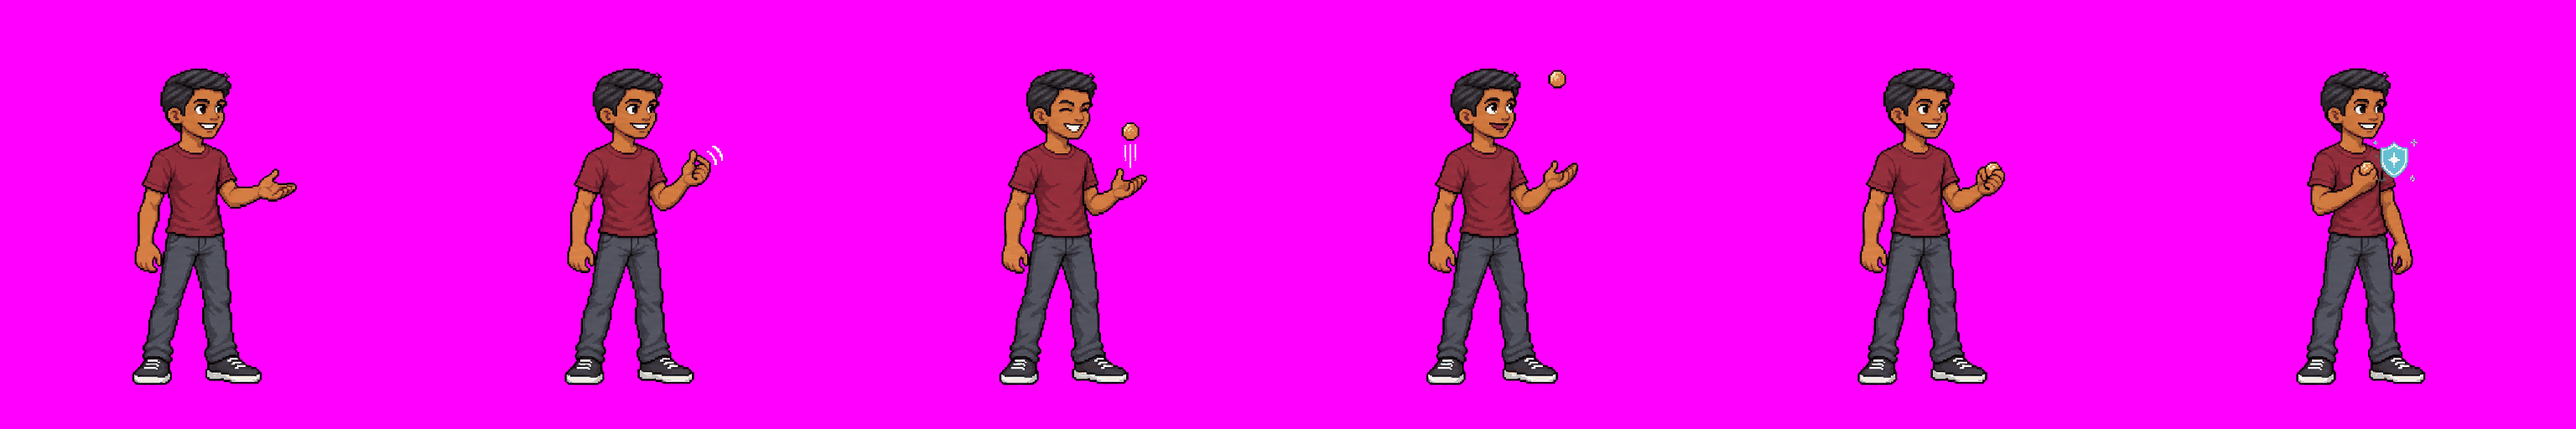
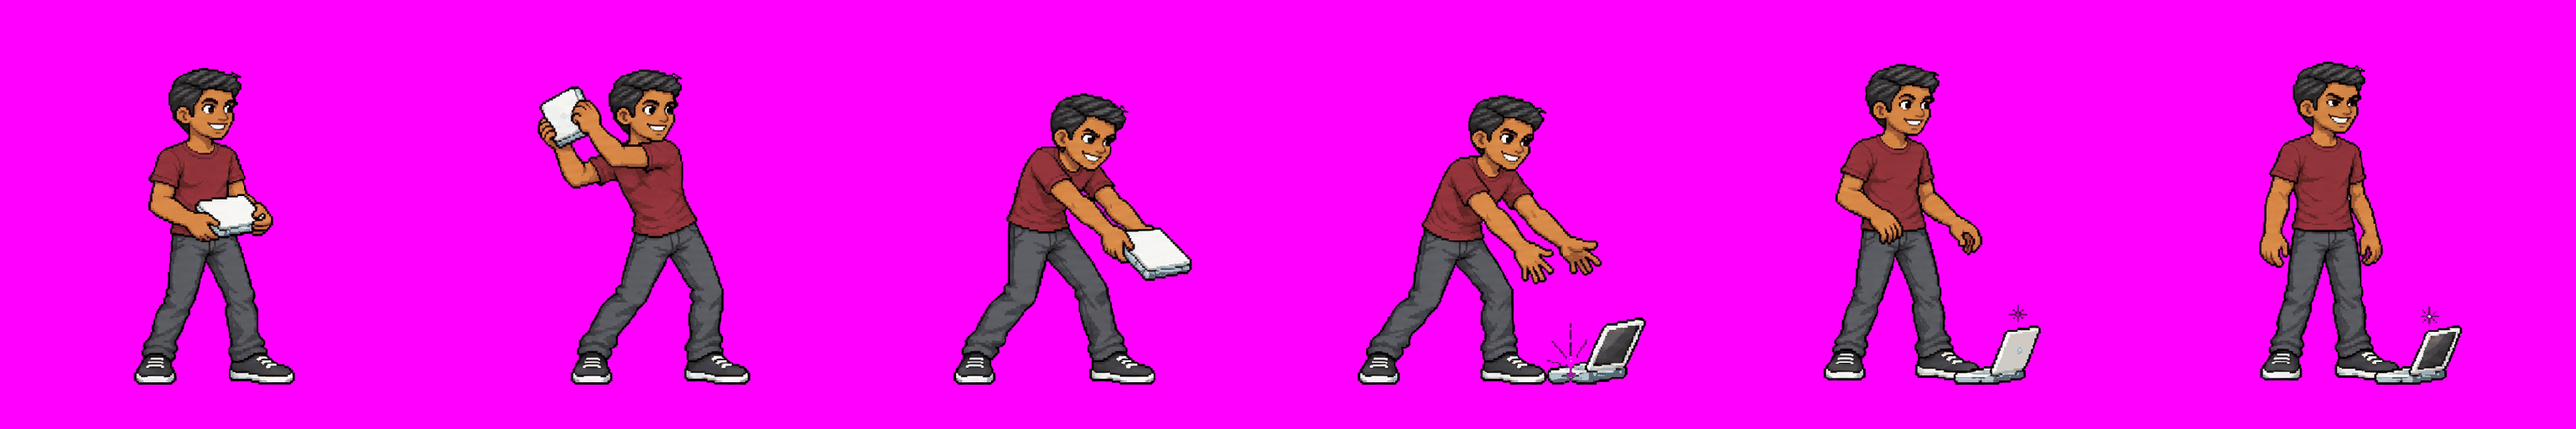
Interfaz pixel art del launcher, actualizacion forzada por version, areas elipticas, reloj de Jorbi y habilidades nuevas

diff --git a/src/world.js b/src/world.js
@@ -26,6 +26,8 @@ const CROPS = {
 const TREES_BIG = ['tree1', 'tree2', 'tree3'], BUSHES = ['bushA', 'bushB', 'bushC', 'bushD', 'bushE'];
 const ROCKS = ['rockA', 'rockB', 'rockC', 'rockD', 'rockE', 'rockF'];
 const MAP_SCALE = 2;
+const YR = 0.75;   // the map is seen at an angle: ground areas are ellipses squashed to this ratio, not perfect circles
+const eDist = (ax, ay, bx, by) => Math.hypot(ax - bx, (ay - by) / YR);   // distance measured in that ellipse metric
 const FOREST = ['wall1', 'wall2', 'wall3', 'tree1', 'tree2', 'tree3', 'tree4', 'bush1', 'bush2', 'trunk1', 'stone1', 'stone2', 'stone3', 'stone4', 'flower1', 'flower2', 'flower3', 'mush1', 'mush2', 'mush3', 'mush4', 'mush5', 'mush6'];
 const CHAMP_ORDER = ['leandro', 'xeviche', 'jorbi', 'axel', 'julio', 'luis', 'eliud', 'hector'];   // TAB cycles through these
 
@@ -493,7 +495,7 @@ export class Arena extends Phaser.Scene {
     const spec = aimSpec(p.key, key, Math.max(1, p.ranks[key]), p), c = spec.color, spin = (this.time.now * 0.012) % 360;
     const img = (id, tex) => this.aimObj(id, () => this.add.image(0, 0, tex).setDepth(99990)).setVisible(true);
     const tech = p.key === 'luis';   // Luis uses circuit/HUD-style indicators instead of magic runes
-    const ring = (id, x, y, r, a = 0.9) => tech ? this.techRing(x, y, r, c, a) : img(id, 'aim_ring').setPosition(x, y).setDisplaySize(r * 2.04, r * 2.04).setTint(c).setAlpha(a).setAngle(spin);
+    const ring = (id, x, y, r, a = 0.9) => tech ? this.techRing(x, y, r, c, a) : img(id, 'aim_ring').setPosition(x, y).setDisplaySize(r * 2.04, r * 2.04 * YR).setTint(c).setAlpha(a);
     const cap = (id, x, y, size) => img(id, 'aim_cap').setPosition(x, y).setDisplaySize(size, size).setTint(c).setAlpha(0.95);
     if (spec.type === 'line') {
       const ex = p.x + p.ax * spec.range, ey = p.y + p.ay * spec.range;
@@ -572,7 +574,8 @@ export class Arena extends Phaser.Scene {
 
   // technological range indicator: thin outer circle, rotating dashed arcs, tick marks, crosshair with corner brackets
   techRing(x, y, r, c, a = 0.9) {
-    const g = this.aimG, t = this.time.now / 1000;
+    const g = this.aimG, t = this.time.now / 1000, ox = x, oy = y; x = 0; y = 0;
+    g.save(); g.translateCanvas(ox, oy); g.scaleCanvas(1, YR);   // drawn as a circle, shown as the ground ellipse
     g.lineStyle(2, c, a * 0.9).strokeCircle(x, y, r);
     g.fillStyle(c, 0.07 * a).fillCircle(x, y, r);
     for (let i = 0; i < 6; i++) { const s0 = t * 0.9 + i * Math.PI / 3; g.lineStyle(5, c, a).beginPath().arc(x, y, r - 7, s0, s0 + 0.42, false).strokePath(); }
@@ -581,12 +584,13 @@ export class Arena extends Phaser.Scene {
     g.lineStyle(2, c, a * 0.8).lineBetween(x - k, y, x - k * 0.35, y).lineBetween(x + k * 0.35, y, x + k, y).lineBetween(x, y - k, x, y - k * 0.35).lineBetween(x, y + k * 0.35, x, y + k);
     const bk = Math.min(r * 0.5, 46);
     [[-1, -1], [1, -1], [1, 1], [-1, 1]].forEach(([sx, sy]) => g.lineStyle(3, c, a).beginPath().moveTo(x + sx * bk, y + sy * (bk - 12)).lineTo(x + sx * bk, y + sy * bk).lineTo(x + sx * (bk - 12), y + sy * bk).strokePath());
+    g.restore();
   }
 
   // persistent ground decal for an active area effect (fades out)
   zoneDecal(x, y, r, color, life) {
     if (!this.textures.exists('zone') || !this.inView(x, y, r)) return;
-    const d = this.add.image(x, y, 'zone').setDepth(y - 3).setTint(color).setAlpha(0).setDisplaySize(r * 2.1, r * 2.1);
+    const d = this.add.image(x, y, 'zone').setDepth(y - 3).setTint(color).setAlpha(0).setDisplaySize(r * 2.1, r * 2.1 * YR);
     this.tweens.add({ targets: d, alpha: 0.9, duration: 150 });
     this.tweens.add({ targets: d, alpha: 0, angle: 40, delay: life * 1000 - 400, duration: 400, onComplete: () => d.destroy() });
   }
@@ -597,7 +601,7 @@ export class Arena extends Phaser.Scene {
     const d = dist(t, f) || 1, r = Math.min(d, max);
     return { x: f.x + (t.x - f.x) / d * r, y: f.y + (t.y - f.y) / d * r };
   }
-  enemiesNear(team, x, y, r) { return this.fighters.filter(t => t.alive && t.team !== team && Math.hypot(t.x - x, t.y - y) <= r); }
+  enemiesNear(team, x, y, r) { return this.fighters.filter(t => t.alive && t.team !== team && eDist(t.x, t.y, x, y) <= r); }
 
   // tires are solid: nobody walks through them, anyone caught under a new wall is pushed out
   resolveSolids(f) {
@@ -747,21 +751,21 @@ export class Arena extends Phaser.Scene {
   }
 
   /* ---------- Jorbi's "15 Minutos más": rewind ---------- */
-  recordHistory(dt) {   // positions of every minion / champion for the last ~6 s (10 samples per second); only the simulating side keeps it
+  recordHistory(dt) {   // positions of every minion / champion for the last ~16 s (10 samples per second); only the simulating side keeps it
     this.histT = (this.histT || 0) - dt; if (this.histT > 0 || this.net?.role === 'client') return; this.histT = 0.1;
     const d = new Map(); this.fighters.forEach(f => { if (f.alive && (f.isChamp || f.isMinion)) d.set(f.nid, [Math.round(f.x), Math.round(f.y)]); });
-    (this.hist ||= []).push({ t: this.gameT, d }); while (this.hist.length && this.gameT - this.hist[0].t > 6) this.hist.shift();
+    (this.hist ||= []).push({ t: this.gameT, d }); while (this.hist.length && this.gameT - this.hist[0].t > 16) this.hist.shift();
   }
   startRewind(owner, a, rank) {
     if (this.net?.role === 'client') return;
-    const now = this.gameT, dur = a.travel, lines = [], units = this.fighters.filter(f => f.alive && !f.away && (f.isChamp || f.isMinion) && !f.owner);
+    const now = this.gameT, back = rk(a.rewind, rank), dur = rk(a.travel, rank), lines = [], units = this.fighters.filter(f => f.alive && !f.away && (f.isChamp || f.isMinion) && !f.owner);
     for (const f of units) {
-      const path = []; for (const h of this.hist || []) { if (now - h.t > a.rewind + 0.05) continue; const e = h.d.get(f.nid); if (e) path.push(e); }
+      const path = []; for (const h of this.hist || []) { if (now - h.t > back + 0.05) continue; const e = h.d.get(f.nid); if (e) path.push(e); }
       if (path.length < 2) continue; path.push([Math.round(f.x), Math.round(f.y)]);
       f.rw = { path, t: 0, dur }; f.pending = null; f.stunT = 0; f.state = 'idle';
       lines.push({ team: f.team, pts: path });
     }
-    this.showRewind(lines, dur); this.net?.onRewind(lines, dur);
+    this.announceRewind(owner, back, dur); this.showRewind(lines, dur); this.net?.onRewind(lines, dur, owner, back);
     this.after(dur + 0.05, () => this.finishRewind(owner, a, rank, units));
   }
   finishRewind(owner, a, rank, units) {
@@ -773,6 +777,12 @@ export class Arena extends Phaser.Scene {
       else { f.slow(sl, t); this.vfx('spark', f.x, f.cy, { scale: 3, tint: 0x66aaff }); }
     });
     this.castCtx = null; this.audio.play('ui_upgrade', { at: owner, vol: 0.8, gap: 0 });
+  }
+  // announcement on every player's screen
+  announceRewind(owner, back, dur = 1.5) {
+    this.rwGlow = { t: dur + 3, T: dur + 3, hg: 2.6 };   // golden screen glow while the effect lasts + the hourglass on every screen
+    this.showBanner({ title: `${owner.def.name.toUpperCase()} USÓ SU RELOJ`, sub: `La partida retrocede ${back} segundos`, team: owner.baseTeam, face: this.faceOf(owner), kind: 'streak', big: 3 }, 3200);
+    this.audio.play('ui_announce', { vol: 0.8, gap: 0 });
   }
   showRewind(lines, dur) { this.rwTrail = { lines, t: 0, dur: dur + 1.4 }; }
   drawRewind(dt) {
@@ -1092,7 +1102,7 @@ export class Arena extends Phaser.Scene {
 
   /* ---------- world API used by fighters ---------- */
   enemiesOf(f) { return this.fighters.filter(t => t.alive && !t.away && t.team !== f.team); }
-  enemiesWithin(f, r) { return this.enemiesOf(f).filter(t => dist(t, f) <= r); }
+  enemiesWithin(f, r) { return this.enemiesOf(f).filter(t => eDist(t.x, t.y, f.x, f.y) <= r); }
   meleeHits(f, reach) {
     return this.enemiesOf(f).filter(t => {
       const d = dist(t, f);
@@ -1231,7 +1241,7 @@ export class Arena extends Phaser.Scene {
 
   vfx(name, x, y, { scale = 3, alpha = 1, tint = null, below = false } = {}) {
     if (!this.inView(x, y, 260)) return null;   // effects outside the camera are never seen: do not even create them
-    const s = this.add.sprite(x, y, 'vfx_' + name).setScale(scale).setDepth(below ? y - 2 : y + 2).setAlpha(alpha);
+    const s = this.add.sprite(x, y, 'vfx_' + name).setScale(scale, name === 'shockwave' ? scale * YR : scale).setDepth(below ? y - 2 : y + 2).setAlpha(alpha);
     if (tint) s.setTint(tint);
     s.play({ key: 'vfx_' + name, repeat: 0 });
     s.once('animationcomplete', () => s.destroy());
@@ -1259,9 +1269,9 @@ export class Arena extends Phaser.Scene {
   // cacti ring the zone and fill it (outer ring first, then the inside), then fade
   cacti(cx, cy, radius) {
     const pts = [], ringN = Math.round(radius * 0.108), fillN = Math.round(radius * 0.085);
-    for (let i = 0; i < ringN; i++) { const a = (i / ringN) * Math.PI * 2 + Math.random() * 0.2; pts.push({ x: cx + Math.cos(a) * radius * 0.96, y: cy + Math.sin(a) * radius * 0.96 * 0.9, ring: true }); }
+    for (let i = 0; i < ringN; i++) { const a = (i / ringN) * Math.PI * 2 + Math.random() * 0.2; pts.push({ x: cx + Math.cos(a) * radius * 0.96, y: cy + Math.sin(a) * radius * 0.96 * YR, ring: true }); }
     for (let i = 0, tries = 0; i < fillN && tries < 300; tries++) {
-      const a = Math.random() * Math.PI * 2, r = Math.sqrt(Math.random()) * radius * 0.78, q = { x: cx + Math.cos(a) * r, y: cy + Math.sin(a) * r * 0.9 };
+      const a = Math.random() * Math.PI * 2, r = Math.sqrt(Math.random()) * radius * 0.78, q = { x: cx + Math.cos(a) * r, y: cy + Math.sin(a) * r * YR };
       if (pts.every(o => Math.hypot(o.x - q.x, o.y - q.y) > 40)) { pts.push(q); i++; }
     }
     pts.forEach((q, i) => {
@@ -1374,6 +1384,7 @@ export class Arena extends Phaser.Scene {
     this.drawAim();
     this.drawRangeHint();
     this.drawRewind(dt);
+    if (this.rwGlow) { this.rwGlow.t -= dt; this.rwGlow.hg -= dt; if (this.rwGlow.t <= 0) this.rwGlow = null; }
     this.updateFog(dt);
     this.net?.post(dt);
   }
@@ -1390,8 +1401,8 @@ export class Arena extends Phaser.Scene {
       }
       if (z.kind === 'infect') {   // Leandro's contracts: a green infected area that poisons everyone inside
         if (z.t <= 0) { z.decal?.destroy(); return false; }
-        if (this.textures.exists('zone')) z.decal ||= this.add.image(z.x, z.y, 'zone').setTint(0x7dff4a).setAlpha(0.7).setDepth(z.y - 3).setDisplaySize(z.r * 2.1, z.r * 1.7);
-        z.decal?.setAngle(z.decal.angle + dt * 22).setAlpha(Math.min(0.7, z.t * 0.7));
+        if (this.textures.exists('zone')) z.decal ||= this.add.image(z.x, z.y, 'zone').setTint(0x7dff4a).setAlpha(0.7).setDepth(z.y - 3).setDisplaySize(z.r * 2.1, z.r * 2.1 * YR);
+        z.decal?.setAlpha(Math.min(0.7, z.t * 0.7));
         z.tick += dt;
         if (z.tick >= 0.5) {
           z.tick -= 0.5; this.vfx('poison_cloud', z.x + Phaser.Math.Between(-z.r * 0.6, z.r * 0.6), z.y + Phaser.Math.Between(-z.r * 0.4, z.r * 0.4) - 10, { scale: 2.2, alpha: 0.7, below: true });
@@ -1424,14 +1435,14 @@ export class Arena extends Phaser.Scene {
       }
       if (z.kind === 'malware') {   // infected zone: stays for a while, anyone enemy that walks in is affected
         if (z.t <= 0) { z.decal?.destroy(); z.icon?.destroy(); return false; }
-        if (this.textures.exists('zone')) z.decal ||= this.add.image(z.x, z.y, 'zone').setTint(z.col).setAlpha(0.75).setDepth(z.y - 3).setDisplaySize(z.r * 2.1, z.r * 2.1);
-        z.decal?.setAngle(z.decal.angle + dt * 18).setAlpha(Math.min(0.75, z.t * 0.5));
+        if (this.textures.exists('zone')) z.decal ||= this.add.image(z.x, z.y, 'zone').setTint(z.col).setAlpha(0.75).setDepth(z.y - 3).setDisplaySize(z.r * 2.1, z.r * 2.1 * YR);
+        z.decal?.setAlpha(Math.min(0.75, z.t * 0.5));
         const itex = 'laptop_' + z.type;
         if (this.textures.exists(itex)) { z.icon ||= this.add.image(z.x, z.y - 40, itex).setDepth(z.y + 50); z.icon.setPosition(z.x, z.y - 55 + Math.sin(this.time.now / 300) * 6).setDisplaySize(86, 70).setAlpha(Math.min(1, z.t)); }
         this.fighters.forEach(f => {
           if (!f.alive || f.away || f.isTower || f.team === o.team) return;
           const cd = (z.cd.get(f) || 0) - dt;
-          if (Math.hypot(f.x - z.x, f.y - z.y) <= z.r) { if (cd <= 0) { z.apply(f, !z.first.has(f)); z.first.add(f); z.cd.set(f, 1.0); } else z.cd.set(f, cd); }
+          if (eDist(f.x, f.y, z.x, z.y) <= z.r) { if (cd <= 0) { z.apply(f, !z.first.has(f)); z.first.add(f); z.cd.set(f, 1.0); } else z.cd.set(f, cd); }
           else z.cd.set(f, Math.max(0, cd));
         });
         return true;
@@ -1445,16 +1456,16 @@ export class Arena extends Phaser.Scene {
           if (!o.away && !o.hiddenFor(this.player)) {
             g.setDepth(o.y + 40);
             const N = Math.round(z.r * 0.55), cols = [0xffffff, 0x33ff88, 0x0a1a10, 0x9affc8, 0x000000];
-            for (let n = 0; n < N; n++) { const a = Math.random() * 6.283, d = Math.sqrt(Math.random()) * z.r, sz = Phaser.Math.Between(3, 8); g.fillStyle(cols[Math.random() * cols.length | 0], 0.35 + Math.random() * 0.4).fillRect(o.x + Math.cos(a) * d, o.y + Math.sin(a) * d * 0.85, sz, Math.random() < 0.3 ? 2 : sz); }
+            for (let n = 0; n < N; n++) { const a = Math.random() * 6.283, d = Math.sqrt(Math.random()) * z.r, sz = Phaser.Math.Between(3, 8); g.fillStyle(cols[Math.random() * cols.length | 0], 0.35 + Math.random() * 0.4).fillRect(o.x + Math.cos(a) * d, o.y + Math.sin(a) * d * YR, sz, Math.random() < 0.3 ? 2 : sz); }
             for (let n = 0; n < 4; n++) { const a = Math.random() * 6.283; g.fillStyle(0x33ff88, 0.4).fillRect(o.x + Math.cos(a) * z.r * 0.5 - 30, o.y + Math.sin(a) * z.r * 0.45, Phaser.Math.Between(30, 90), 3); }
           }
         }
-        this.fighters.forEach(f => { if (f.alive && f.isChamp && f.team !== o.team && !z.free.has(f) && dist(f, o) <= z.r) { f.silenceT = Math.max(f.silenceT, 0.3); this.markSrc(f, 'silence'); } });
+        this.fighters.forEach(f => { if (f.alive && f.isChamp && f.team !== o.team && !z.free.has(f) && eDist(f.x, f.y, o.x, o.y) <= z.r) { f.silenceT = Math.max(f.silenceT, 0.3); this.markSrc(f, 'silence'); } });
         return true;
       }
       if (z.kind === 'puddle') {
         if (z.t <= 0) { z.decal?.destroy(); return false; }
-        z.decal ||= this.add.image(z.x, z.y, this.textures.exists('ink_blot') ? 'ink_blot' : 'zone').setTint(0x4a2cc0).setAlpha(0.85).setDepth(-899).setDisplaySize(z.r * 2.1, z.r * 1.7);
+        z.decal ||= this.add.image(z.x, z.y, this.textures.exists('ink_blot') ? 'ink_blot' : 'zone').setTint(0x4a2cc0).setAlpha(0.85).setDepth(-899).setDisplaySize(z.r * 2.1, z.r * 2.1 * YR);
         this.fighters.filter(f => f.alive && f.team !== o.team && !f.isTower).forEach(f => {
           if (Math.hypot(f.x - z.x, (f.y - z.y) / 0.8) > z.r) { z.inside.delete(f); return; }
           f.slow(z.slow, 0.15);
@@ -1466,12 +1477,12 @@ export class Arena extends Phaser.Scene {
       if (z.t <= 0 || !o.alive) { z.decal?.destroy(); return false; }
       if (this.textures.exists('zone')) {
         z.decal ||= this.add.image(o.x, o.y, 'zone').setTint(0x5dff8a).setAlpha(0.8);
-        z.decal.setPosition(o.x, o.y).setDepth(o.y - 3).setDisplaySize(z.r * 2.1, z.r * 2.1).setAngle(z.decal.angle + dt * 25);
+        z.decal.setPosition(o.x, o.y).setDepth(o.y - 3).setDisplaySize(z.r * 2.1, z.r * 2.1 * YR);
       }
       z.tick += dt;
       if (z.tick >= 0.5) {
         z.tick -= 0.5;
-        this.fighters.filter(f => f.alive && f.isChamp && f.team === o.team && dist(f, o) <= z.r).forEach(f => {
+        this.fighters.filter(f => f.alive && f.isChamp && f.team === o.team && eDist(f.x, f.y, o.x, o.y) <= z.r).forEach(f => {
           const h = Math.min(z.hps * 0.5, f.maxHp - f.hp); if (h > 0.4) { f.hp += h; this.float(f.x + Phaser.Math.Between(-12, 12), f.y - f.def.height - 6, `+${Math.round(h)}`, '#5dff8a'); }
         });
         this.vfx('heal', o.x + Phaser.Math.Between(-z.r * 0.7, z.r * 0.7), o.y + Phaser.Math.Between(-z.r * 0.3, z.r * 0.3) - 20, { scale: 2, alpha: 0.8, below: true });

diff --git a/src/hud.js b/src/hud.js
@@ -55,7 +55,7 @@ export class Hud extends Phaser.Scene {
     this.g = this.add.graphics().setDepth(1);        // dark fills behind the art + bars/minimap
     this.top = this.add.graphics().setDepth(3);      // overlays above icons (cooldown sweep, highlights)
     // the scene object survives restarts but its display objects do not: forget every pooled object / texture of the previous match
-    this.fogImg = null; this.stImgs = {}; this.itImgs = {}; this.bnImgs = {}; this.blindImg = null; this.blindTex = null; this.blindWas = false; if (this.textures.exists('blindmask')) this.textures.remove('blindmask');
+    this.fogImg = null; this.glowG = null; this.hgImg = null; this.stImgs = {}; this.itImgs = {}; this.bnImgs = {}; this.blindImg = null; this.blindTex = null; this.blindWas = false; if (this.textures.exists('blindmask')) this.textures.remove('blindmask');
     this.txt = {}; this.icons = []; this.pimg = {}; this.panels = {}; this.iconRects = []; this.upRects = []; this.helpRect = null;
     this.tipG = this.add.graphics().setDepth(6);
     this.redG = this.add.graphics().setDepth(0.5);   // red screen tint while dead
@@ -144,6 +144,18 @@ export class Hud extends Phaser.Scene {
     if (A.control && A.control.mode === 'ctrl') this.T('ctrlT', `CONTROLANDO a ${A.control.target.def.name.toUpperCase()} · ${A.control.t.toFixed(1)}s`, W / 2, 90 * u, { size: 18 * u, bold: true, color: '#33ff88', origin: [0.5, 0], stroke: 4 });
 
     this.drawBanner(A, u, W);
+    {   // Jorbi's "15 Minutos más": golden glow around every player's screen while it lasts, and an hourglass announcement
+      const G = A.rwGlow, gg = this.glowG || (this.glowG = this.add.graphics().setDepth(0.6)); gg.clear();
+      if (G) {
+        const k = Math.min(1, G.t / 0.8, (G.T - G.t) / 0.25 + 0.15), pulse = 0.8 + 0.2 * Math.sin(this.time.now / 160);
+        for (let i = 0; i < 14; i++) gg.lineStyle(26, 0xffc933, 0.075 * (14 - i) / 14 * k * pulse).strokeRect(i * 11 - 6, i * 11 - 6, W - i * 22 + 12, H - i * 22 + 12);
+        if (G.hg > 0) {
+          const hk = Math.min(1, G.hg / 0.5, (2.6 - G.hg) / 0.25), sz = 150 * u, y0 = 250 * u;
+          if (this.textures.exists('hourglass')) { this.hgImg = this.hgImg?.scene ? this.hgImg : this.add.image(0, 0, 'hourglass').setDepth(8); this.hgImg.setVisible(true).setPosition(W / 2, y0).setDisplaySize(sz, sz).setAlpha(hk).setAngle(Math.min(180, (2.6 - G.hg) * 150)); }
+          else this.T('hgTxt', '⌛', W / 2, y0, { size: 90 * u, origin: [0.5, 0.5], color: '#ffd23f', depth: 8 }).setAlpha(hk);
+        } else this.hgImg?.setVisible(false);
+      } else this.hgImg?.setVisible(false);
+    }
 
     // ---- dead: red screen + respawn countdown at the top ----
     if (!p.alive) {

diff --git a/src/version.js b/src/version.js
@@ -1,0 +1,32 @@
+// Forces players onto the newest build: compares the id this page was built with against the server's current one.
+// If they differ the cache is wiped and the page reloads (immediately in the launcher, after the match if one is running).
+const MINE = typeof __BUILD_ID__ === 'undefined' ? 'dev' : __BUILD_ID__;
+let shown = false;
+
+async function wipe() {
+  try { if (window.caches) for (const k of await caches.keys()) await caches.delete(k); } catch (e) { /* ignore */ }
+  try { if (navigator.serviceWorker) for (const r of await navigator.serviceWorker.getRegistrations()) await r.unregister(); } catch (e) { /* ignore */ }
+}
+async function update(id) {
+  if (shown) return; shown = true;
+  const el = document.createElement('div'); el.id = 'newver';
+  el.style.cssText = 'position:fixed;inset:0;z-index:200;background:rgba(2,6,14,.94);display:flex;flex-direction:column;align-items:center;justify-content:center;gap:16px;color:#cfe3ff;font-family:Rajdhani,Segoe UI,sans-serif;text-align:center;padding:24px';
+  el.innerHTML = '<div style="font:900 clamp(22px,4vw,40px) Orbitron,sans-serif;letter-spacing:.14em;color:#ffd23f">NUEVA VERSIÓN DISPONIBLE</div><div style="font-size:18px;max-width:460px">Actualizando el juego para que tengas la versión más reciente…</div><div style="font-size:14px;color:#7a8db3">La página se recargará sola.</div>';
+  document.body.appendChild(el);
+  await wipe();
+  const u = new URL(location.href); u.searchParams.set('v', id);   // new URL: the browser cannot serve the old index.html from its cache
+  setTimeout(() => location.replace(u.toString()), 1200);
+}
+async function check() {
+  if (MINE === 'dev') return;
+  try {
+    const r = await fetch('/api/version?t=' + Date.now(), { cache: 'no-store' }); if (!r.ok) return;
+    const { id } = await r.json();
+    if (id && id !== 'dev' && id !== MINE) { if (document.querySelector('#ui')) update(id); else window.__newVersion = id; }   // in a match: wait for the launcher
+  } catch (e) { /* offline: try again later */ }
+}
+export function watchVersion() {
+  check(); setInterval(check, 60000);
+  window.addEventListener('focus', check);
+  setInterval(() => { if (window.__newVersion && document.querySelector('#ui')) update(window.__newVersion); }, 2000);
+}

diff --git a/src/netgame.js b/src/netgame.js
@@ -79,7 +79,7 @@ export class NetGame {
   onDmg(src, t, dmg, type, dot) { if (this.role === 'host' && !dot) this.ev.push(['d', t.nid, r1(dmg), Math.max(0, TYPES.indexOf(type)), t.isNexus ? 2 : t.isTower ? 1 : 0]); }
   onDie(v, killer) { if (this.role === 'host') this.ev.push(['k', v.nid, killer?.nid ?? -1]); }
   onWave(n) { if (this.role === 'host') this.ev.push(['w', n]); }
-  onRewind(lines, dur) { if (this.role === 'host') this.ev.push(['r', r2(dur), lines.map(l => [l.team, l.pts.filter((p, i) => i % 3 === 0 || i === l.pts.length - 1).flat()])]); }
+  onRewind(lines, dur, owner, back) { if (this.role === 'host') this.ev.push(['r', r2(dur), owner.nid, back, lines.map(l => [l.team, l.pts.filter((p, i) => i % 3 === 0 || i === l.pts.length - 1).flat()])]); }
   onShell(sx, sy, tx, ty) { if (this.role === 'host') this.ev.push(['s', r1(sx), r1(sy), r1(tx), r1(ty)]); }
   flush() { if (this.ev.length) { this.send(null, { k: 'ev', l: this.ev }); this.ev = []; } }
 
@@ -213,7 +213,8 @@ export class NetGame {
       if (e[1] === 0) w.audio.voice('v_minions', 1, 'ann_minions', { title: '¡MINIONS DESPLEGADOS!', sub: 'La primera oleada avanza por el carril', team: 2 });
       w.audio.play('minion_yell', { at: { x: 260, y: w.laneY }, vol: 0.5, gap: 200 });
     } else if (e[0] === 'r') {   // Jorbi's rewind trails
-      w.showRewind(e[2].map(([team, flat]) => ({ team, pts: Array.from({ length: flat.length / 2 }, (_, i) => [flat[i * 2], flat[i * 2 + 1]]) })), e[1]);
+      w.announceRewind(this.fighter(e[2]) || w.player, e[3], e[1]);
+      w.showRewind(e[4].map(([team, flat]) => ({ team, pts: Array.from({ length: flat.length / 2 }, (_, i) => [flat[i * 2], flat[i * 2 + 1]]) })), e[1]);
     } else if (e[0] === 's') {
       const [, sx, sy, tx, ty] = e, shell = w.add.circle(sx, sy, 7, 0x333333).setDepth(100000);
       w.tweens.add({ targets: shell, x: tx, y: { value: ty - 8, ease: 'Sine.In' }, scale: 1.8, duration: 800, onComplete: () => { shell.destroy(); w.vfx('shockwave', tx, ty, { scale: 3, below: true }); w.vfx('spark', tx, ty - 20, { scale: 4, tint: 0xffb020 }); w.audio.play('explosion', { at: { x: tx, y: ty }, vol: 0.8, gap: 60 }); } });

diff --git a/src/launcher.css b/src/launcher.css
@@ -125,3 +125,18 @@ label.l{display:block;font-size:12px;letter-spacing:.2em;color:var(--mut);margin
   .chip{font-size:13px}.btn{font-size:12px;letter-spacing:.08em}.ctab{padding:4px 7px 4px 4px}.ctab span{display:none}.ctab i{font-size:12px}
   .row{flex-wrap:wrap}.mbtn{min-width:0}#tip{max-width:86vw}
 }
+/* ---- sci-fi UI kit: "Sci-Fi HUD Kit Lite" by Willosuna (pixel art, free for commercial use) ---- */
+.panel,.btn,.vol input[type=range]{image-rendering:pixelated}
+.panel{background:none;border:0;border-image:url(assets/ui/scifi/panel_9slice.png) 9 fill / 36px stretch;clip-path:none;box-shadow:none;padding:50px 34px 32px}
+.panel.info,.panel.chat{padding-top:44px}
+.btn{border:0;border-image:url(assets/ui/scifi/button_cyan_normal.png) 6 fill / 24px stretch;clip-path:none;background:none;padding:14px 26px;color:#eaffff;text-shadow:0 2px 0 #052233;font-weight:900}
+.btn:hover:not(:disabled){border-image-source:url(assets/ui/scifi/button_cyan_hover.png);background:none;box-shadow:none;transform:translateY(-1px);filter:brightness(1.15)}
+.btn:active:not(:disabled){border-image-source:url(assets/ui/scifi/button_cyan_pressed.png);transform:none}
+.btn.go{filter:hue-rotate(-95deg) saturate(1.1)}.btn.go:hover:not(:disabled){filter:hue-rotate(-95deg) saturate(1.1) brightness(1.15)}
+.btn.warn{filter:hue-rotate(150deg) saturate(1.3)}.btn.ghost{filter:grayscale(.55) brightness(.9);color:#eaffff}
+.btn.go,.btn.warn,.btn.ghost,.btn.mbtn,.btn.mbtn.on{background:none!important}
+.btn.mbtn:not(.on){filter:grayscale(.7) brightness(.85)}.btn.mbtn.red{filter:hue-rotate(150deg) saturate(1.4)}
+.btn.big{padding:20px 28px}.btn.sm{padding:10px 16px}.btn.big small{color:#bfeaff}.btn:disabled{filter:grayscale(1) brightness(.6)}
+.chip,.ctab{clip-path:none}.team h4{white-space:normal}
+.abi,.cc{border-image:none}.pl.me{box-shadow:0 0 0 1px var(--cy) inset}
+@media(max-width:900px){.panel{padding:42px 20px 24px;border-image-width:28px}}

diff --git a/src/data.js b/src/data.js
@@ -80,8 +80,8 @@ CHAMPIONS.jorbi = {
           desc: 'Pasiva: cada tercer ataque básico es un golpe fuerte que causa daño crítico.',
           critMult: [1.8, 2.3, 2.8] },
     ult: { name: '15 Minutos más', icon: 'jorbi_ult', cd: [80, 70, 60], mana: [100, 100, 100], windup: 0.9, dur: 1.4,
-           desc: 'Retrocede la partida 5 segundos: los súbditos vivos y los campeones vivos, aliados y enemigos, regresan a donde estaban hace 5 segundos (se muestra el camino que recorrieron). Al terminar, los aliados ganan un escudo y velocidad de movimiento y los enemigos quedan ralentizados durante unos segundos.',
-           rewind: 5, travel: 1.3, buffTime: [2.5, 3, 3.5], shield: [90, 140, 190], shieldHpPct: 0.06, speedBoost: [0.3, 0.35, 0.4], slow: [0.4, 0.5, 0.6] },
+           desc: 'Retrocede la partida 5 segundos (10 en rango 2 y 15 en rango 3) y avisa a todos los jugadores: los súbditos vivos y los campeones vivos, aliados y enemigos, regresan a donde estaban (se muestra el camino que recorrieron). Al terminar, los aliados ganan un escudo y velocidad de movimiento y los enemigos quedan ralentizados durante unos segundos.',
+           rewind: [5, 10, 15], travel: [1.3, 1.8, 2.3], buffTime: [2.5, 3, 3.5], shield: [90, 140, 190], shieldHpPct: 0.06, speedBoost: [0.3, 0.35, 0.4], slow: [0.4, 0.5, 0.6] },
   },
 };
 

diff --git a/server/index.js b/server/index.js
@@ -91,12 +91,17 @@ app.get('/api/news', (req, res) => {
   }
 });
 
+// the id of the build being served: clients compare it with the one they were built with and reload when it differs
+app.get('/api/version', (req, res) => {
+  res.set('Cache-Control', 'no-store');
+  try { res.json(JSON.parse(fs.readFileSync(path.resolve(path.dirname(fileURLToPath(import.meta.url)), '../dist/version.json'), 'utf8'))); } catch (e) { res.json({ id: 'dev' }); }
+});
 app.use('/api', (req, res) => res.status(404).json({ error: 'No encontrado' }));
 // production: the same process serves the built game (npm run build -> dist/); in development Vite does it
 const DIST = path.resolve(path.dirname(fileURLToPath(import.meta.url)), '../dist');
 if (fs.existsSync(path.join(DIST, 'index.html'))) {
   app.use('/assets', express.static(path.join(DIST, 'assets'), { maxAge: '7d' }));
-  app.use(express.static(DIST, { maxAge: '5m' }));
+  app.use(express.static(DIST, { maxAge: 0, etag: true, setHeaders: (res, f) => { if (/\.html$|version\.json$/.test(f)) res.set('Cache-Control', 'no-cache, no-store, must-revalidate'); } }));
 }
 app.use((err, req, res, next) => {
   res.status(err.status || 500).json({ error: err.type === 'entity.parse.failed' ? 'JSON no válido' : 'Error del servidor' });

diff --git a/vite.config.js b/vite.config.js
@@ -1,10 +1,16 @@
 import { defineConfig } from 'vite';
 
-export default defineConfig({
+// every build gets an id; the server publishes it (dist/version.json) and the client forces a reload when it differs from the one it was built with
+const BUILD_ID = process.env.BUILD_ID || String(Date.now());
+const versionFile = () => ({ name: 'version-file', apply: 'build', generateBundle() { this.emitFile({ type: 'asset', fileName: 'version.json', source: JSON.stringify({ id: BUILD_ID }) }); } });
+
+export default defineConfig(({ command }) => ({
+  define: { __BUILD_ID__: JSON.stringify(command === 'build' ? BUILD_ID : 'dev') },
+  plugins: [versionFile()],
   server: {
     proxy: {
       '/api': 'http://localhost:3001',
       '/ws': { target: 'ws://localhost:3001', ws: true },
     },
   },
-});
+}));

diff --git a/src/main.js b/src/main.js
@@ -3,7 +3,9 @@ import { Boot, Arena } from './world.js';
 import { Hud } from './hud.js';
 import { Menu } from './menu.js';
 import { Launcher } from './launcher.js';
+import { watchVersion } from './version.js';
 
+watchVersion();
 // phones / tablets: index.html shows a notice instead (window.__mobileBlocked)
 if (!window.__mobileBlocked) new Phaser.Game({
   type: Phaser.AUTO, width: '100%', height: '100%', pixelArt: true, backgroundColor: '#1b2a14',

diff --git a/art/SKILLS_V2_SPEC.md b/art/SKILLS_V2_SPEC.md
@@ -1,0 +1,17 @@
+# Habilidades nuevas (Codex) — iconos, sprites de animación y objetos
+
+Mismo estilo pixel art y mismo formato que el resto (ver `art/SPRITE_SPEC.md`, `art/AXEL_SPEC.md`, `art/JORBI_SPEC.md`). Sobrescribe los archivos indicados.
+Tiras de animación: PNG horizontal de N celdas iguales de 512x512, fondo MAGENTA PURO #FF00FF plano, personaje mirando a la DERECHA, misma escala en todos los cuadros, pies sobre la misma línea base (~90 % de la altura de la celda), ~74 % de la altura de la celda, contorno negro, bordes duros. Mantén cara, ropa y proporciones EXACTOS de la referencia (`art/ref/<personaje>.png`).
+
+## 1) Axel — E "Regateador hábil" (nuevo: laptop Canaima agujero negro)
+- `art/raw/axel/power3.png` — 6 cuadros (tira de 3072x512): Axel planta los pies y LANZA al suelo, con las dos manos, una laptop pequeña estilo Canaima (portátil blanca/azul claro con una manzana-no, sin logos reales); al caer la laptop se abre y emite una chispa morada. Cuadros: preparación, brazo atrás, lanzamiento, soltar, recoger, pose final con una sonrisa traviesa.
+- `art/raw/icons/axel_p3.png` — 128x128, fondo magenta: una laptop abierta con la pantalla mostrando un remolino/agujero negro morado que absorbe pequeñas partículas y monedas doradas.
+
+## 2) Jorbi — R "15 Minutos más" (reloj de arena)
+- `art/raw/jorbi/ult.png` — 8 cuadros (tira de 4096x512): Jorbi saca un RELOJ DE ARENA dorado grande, lo levanta con las dos manos sobre su cabeza, lo voltea y el reloj brilla (arena cyan/dorada cayendo hacia arriba), pose final con el reloj en alto y energía alrededor. Sin transformación muscular (la habilidad ya no lo transforma).
+- `art/raw/icons/jorbi_ult.png` — 128x128, fondo magenta: un reloj de arena dorado con flechas circulares hacia atrás (rewind) en cyan.
+- `art/raw/objects/hourglass.png` — 512x512, fondo magenta: un reloj de arena dorado GRANDE y brillante, centrado, vista frontal, arena cyan, ornamentos dorados (se muestra en las pantallas de todos los jugadores como anuncio).
+
+## 3) Leandro — E... en realidad W/F "Lanzamiento de contrato" (proyectil)
+- `art/raw/objects/contract.png` — 512x512, fondo magenta: UN contrato enrollado/doblado en pergamino verde ácido (veneno), con sello rojo de cera y gotas verdes goteando, ligeramente inclinado como volando hacia la derecha (el juego lo rota en el aire). Es el proyectil: se lanzan varios en abanico.
+- `art/raw/icons/leandro_p2.png` — 128x128 (actualiza el icono): tres contratos verdes en abanico con una nube tóxica verde detrás.

diff --git a/DEPLOY.md b/DEPLOY.md
@@ -59,3 +59,6 @@ Las cuentas viven en `server/data/devbrawl.db` (SQLite). Haz copia de esa carpet
 - Variables útiles: `PORT` (3001 por defecto), `JWT_SECRET`, `DB_PATH`.
 - Las partidas online las simula el navegador del anfitrión; el servidor solo gestiona cuentas, salas y reenvía mensajes, así que consume muy poco.
 - En móviles el juego muestra un aviso de que no está disponible.
+
+## Actualizaciones forzadas (caché)
+Cada `npm run build` genera un id (`dist/version.json`). El juego abierto lo compara con `/api/version` al cargar, cada minuto y al volver a la pestaña; si el id cambió, borra la caché del navegador y recarga solo (en el launcher al instante, durante una partida al volver al launcher). El `index.html` se sirve siempre sin caché y los archivos de `assets/` llevan hash, así que tras `git pull && npm ci && npm run build && pm2 restart suika` todos los jugadores pasan a la nueva versión sin hacer nada.

diff --git a/README.md b/README.md
@@ -11,3 +11,4 @@ MOBA-brawler en pixel art (Phaser 4 + Vite) con launcher, cuentas y salas online
 ## Créditos de arte
 - Terreno base y decorado: *Free Top-Down RPG 32x32 Tile Set* de Mixel (itch.io/mixelslime).
 - Árboles, arbustos, rocas, flores y hongos del bosque: *Top Down Forest Pack* de Brendon Bancer (brendon-bancer.itch.io/topdownpackforestpack).
+- Interfaz del launcher: *Sci-Fi HUD Kit Lite* de Willosuna (itch.io/willosuna), pixel art gratuito para uso comercial.
